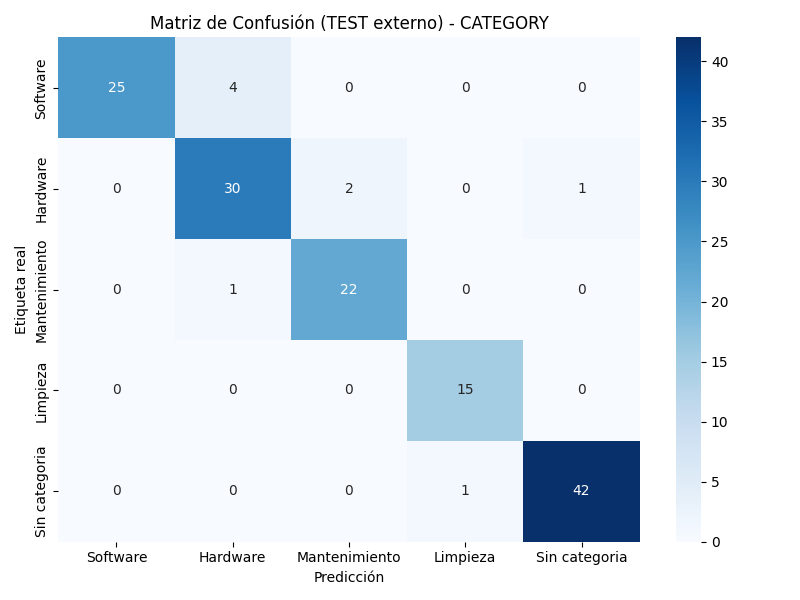
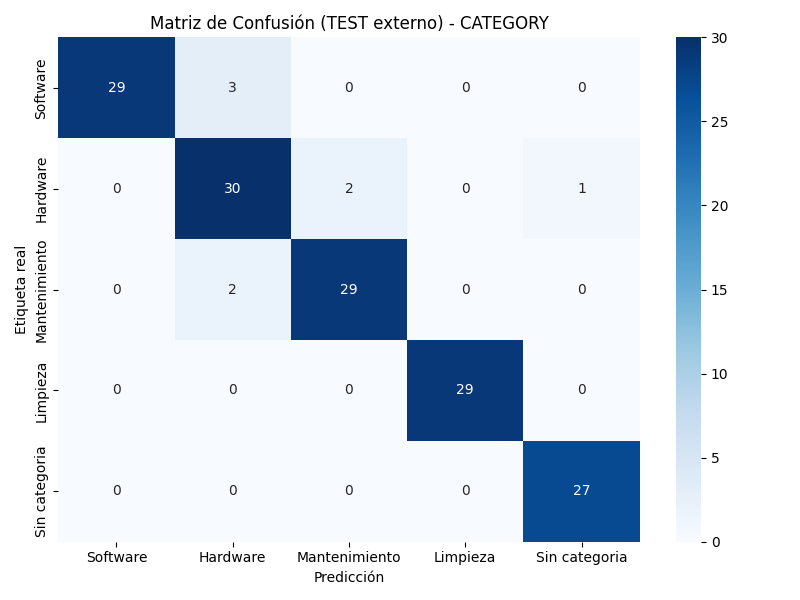
Preprocess y test externo mejorados, tolerancia a fallas de tickets, orden de búsqueda cambiado, días de notificaciones: 7, entre otros.

diff --git a/backend/controllers/searchController.js b/backend/controllers/searchController.js
@@ -143,16 +143,6 @@ const getSearch = async (req, res) => {
       }
     }
 
-    const dayMap = {
-      'Lunes': 'L',
-      'Martes': 'M',
-      'Miércoles': 'I',
-      'Miercoles': 'I',
-      'Jueves': 'J',
-      'Viernes': 'V',
-      'Sábado': 'S',
-      'Sabado': 'S'
-    };
 
     const dayPriority = {
       'L': 1,
@@ -164,34 +154,36 @@ const getSearch = async (req, res) => {
       '.': 7
     };
 
-    const selectedDayLetter = dayMap[day] || day;
+    function getEarliestDayPriority(daysStr) {
+      const days = daysStr.split(' ').filter(d => d !== '');
+      return days.reduce((min, d) => {
+        const pr = dayPriority[d] ?? 7;
+        return pr < min ? pr : min;
+      }, 7);
+    }
+
+    function getStartTime(scheduleStr) {
+      if (!scheduleStr) return 9999;
+      const [start] = scheduleStr.split('-');
+      return parseInt(start, 10);
+    }
 
     results.sort((a, b) => {
-      const aIsInBuilding = a.data.building === building;
-      const bIsInBuilding = b.data.building === building;
+      const aDayPr = getEarliestDayPriority(a.data.days || '');
+      const bDayPr = getEarliestDayPriority(b.data.days || '');
 
-      // Prioridad 1: el edificio que coincide
-      if (aIsInBuilding && !bIsInBuilding) return -1;
-      if (!aIsInBuilding && bIsInBuilding) return 1;
-
-      // Obtener días activos
-      const aDays = a.data.days.split(' ').filter(d => d !== '.' && d !== '');
-      const bDays = b.data.days.split(' ').filter(d => d !== '.' && d !== '');
-
-      // Prioridad 2: dentro del mismo edificio, día buscado
-      const aHasDay = aDays.includes(selectedDayLetter);
-      const bHasDay = bDays.includes(selectedDayLetter);
-      if (aIsInBuilding && bIsInBuilding) {
-        if (aHasDay && !bHasDay) return -1;
-        if (!aHasDay && bHasDay) return 1;
+      // Primero por día
+      if (aDayPr !== bDayPr) {
+        return aDayPr - bDayPr;
       }
 
-      // Prioridad 3: día más próximo por prioridad
-      const aBestDay = aDays.reduce((min, d) => Math.min(min, dayPriority[d] ?? 7), 7);
-      const bBestDay = bDays.reduce((min, d) => Math.min(min, dayPriority[d] ?? 7), 7);
+      // Ordena por hora
+      const aStart = getStartTime(a.data.schedule);
+      const bStart = getStartTime(b.data.schedule);
 
-      return aBestDay - bBestDay;
+      return aStart - bStart;
     });
+
 
     // Envia los resultados
     if (results.length === 0) {

diff --git a/frontend/src/components/interfaz_calendar/selectsLogic.js b/frontend/src/components/interfaz_calendar/selectsLogic.js
@@ -199,28 +199,28 @@ export default function SelectsLogic({ onUpdateBuilding, onUpdateDay, onUpdateCy
       if (result.success) {
         const { buildings, cycles } = result.result;
         
-        let message = '📢 Estado de los archivos JSON.\n\n';
+        let message = 'Estado de los archivos JSON.\n\n';
         // Información de edificios
-        message += `📚 Edificios:\n`;
-        message += `✅ Éxito: ${buildings.success.length} edificios\n`;
-        message += `⚠ Vacíos: ${buildings.empty.length} edificios\n`;
-        message += `🗑 Corruptos: ${buildings.skipped.length} edificios\n`;
-        message += `❌ Fallidos: ${buildings.failed.length} edificios\n`;
+        message += `Edificios:\n`;
+        message += `Éxito: ${buildings.success.length} edificios\n`;
+        message += `Vacíos: ${buildings.empty.length} edificios\n`;
+        message += `Corruptos: ${buildings.skipped.length} edificios\n`;
+        message += `Fallidos: ${buildings.failed.length} edificios\n`;
 
         // Información de ciclos
         if (cycles?.success) {
-          message += `\n📅 Ciclos guardados`;
+          message += `\nCiclos guardados.`;
         } else {
-          message += `\n❌ No se pudieron guardar los ciclos.`;
+          message += `\nNo se pudieron guardar los ciclos.`;
         }
   
         alert(message);
       } else {
-        alert(`⚠ Hubo un error al descargar los archivos: ${result.error || "Error desconocido"}`);
+        alert(`Hubo un error al descargar los archivos: ${result.error || "Error desconocido"}`);
       }
     } catch (error) {
       console.error("Error durante la descarga:", error);
-      alert(`❌ Error inesperado: ${error.message}`);
+      alert(`Error inesperado: ${error.message}`);
     }
   };
 

diff --git a/backend/controllers/ticketController.js b/backend/controllers/ticketController.js
@@ -5,7 +5,12 @@ const { classifyTicket } = require('../utils/aiClassifier');
 
 exports.createTicket = async (req, res) => {
   const { building, room, title, report, created_by } = req.body;
-  // const { category, secondaryCategory, priority } = classifyTicket({ building, room, title, report });
+
+  if (!building || !report || !title || !created_by) {
+    return res.status(400).json({ error: 'Faltan campos obligatorios' });
+  }
+
+  let category, secondaryCategory, priority;
 
   try {
     const response = await axios.post(`${process.env.CLASSIFIER_URL}/classify`, {
@@ -18,16 +23,13 @@ exports.createTicket = async (req, res) => {
     secondaryCategory = response.data.secondaryCategory;
     priority = response.data.priority;
   } catch (error) {
-    return res.status(500).json({ error: 'Error clasificando el ticket' });
+    category = 'Sin categoria';
+    secondaryCategory = null;
+    priority = 'Baja';
   }
 
   const fullCategory = secondaryCategory ? `${category} (${secondaryCategory})` : category;
 
-  // const { building, room, title, category, priority, report, created_by } = req.body;
-
-  if (!building || !report || !title || !priority || !fullCategory || !created_by) {
-    return res.status(400).json({ error: 'Faltan campos obligatorios' });
-  }
 
   try {
     const result = await pool.query(

diff --git a/frontend/src/utils/notificacions.js b/frontend/src/utils/notificacions.js
@@ -6,7 +6,7 @@ export const notifyReserva = (mensaje, reservation, onSeen) => {
       <div>
         <p>📍 Edificio: {reservation.building} ({reservation.classroom}).</p>
         <p>📖 Profesor: {reservation.professor}.</p>
-        {reservation.user && <p>👤 Usuario: {reservation.user.charAt(0).toUpperCase() + reservation.user.slice(1)}</p>}
+        {reservation.user && <p>👤 Usuario: {reservation.user.charAt(0).toUpperCase() + reservation.user.slice(1)}.</p>}
       </div>
     ),
     onAutoClose: () => onSeen?.(),
@@ -26,10 +26,10 @@ export const notifyTicket = (mensaje, ticket, onSeen) => {
     description: (
     <div>
       <b>{ticket.title}</b>
-      <p>Edificio: {ticket.building}.</p>
-      <p>Prioridad: {ticket.priority}.</p>
+      <p>📍 Edificio: {ticket.building}.</p>
+      <p>🕑 Prioridad: {ticket.priority}.</p>
       <p>
-        Creado por: {ticket.created_by.charAt(0).toUpperCase() + ticket.created_by.slice(1)}.
+        👤 Creado por: {ticket.created_by.charAt(0).toUpperCase() + ticket.created_by.slice(1)}.
       </p>
 
     </div>

diff --git a/frontend/src/components/interfaz_login/crud.js b/frontend/src/components/interfaz_login/crud.js
@@ -532,7 +532,7 @@ export default function Crud() {
                               className="px-3 py-1.5 border border-gray-300 rounded-md shadow-sm focus:outline-none focus:ring-2 focus:ring-indigo-600 focus:border-indigo-500 text-sm text-gray-800 bg-white"
                             >
                               <option value="user">Usuario</option>
-                              <option value="superuser">Super usuario</option>
+                              <option value="superuser">Superusuario</option>
                               <option value="tecnico">Técnico</option>
                             </select>
                           </td>
@@ -643,7 +643,7 @@ export default function Crud() {
               ¿Estás seguro de cambiar el rol de <strong>{selectedUser?.username}</strong> a{' '}
               <strong>
               {pendingRole === 'superuser'
-              ? 'Super usuario'
+              ? 'Superusuario'
               : pendingRole === 'user'
               ? 'Usuario'
               : 'Técnico'

diff --git a/frontend/src/components/interfaz_calendar/professorSchedule.js b/frontend/src/components/interfaz_calendar/professorSchedule.js
@@ -49,7 +49,7 @@ export default function ProfessorSchedule({ professorSchedule, selectedCycle }) 
       <hr style={{ margin: '10px 0 20px 0', borderTop: '2px solid #4629ba' }} />
 
       {professors.map((professor, idx) => (
-        <div key={idx} className="professor-section">
+        <div key={idx} className="professor-section" style={{fontSize: "17px"}}>
           <strong>
             <h4>{professor}</h4>
           </strong>
@@ -61,6 +61,7 @@ export default function ProfessorSchedule({ professorSchedule, selectedCycle }) 
                   <div><b>Dia/s:</b> {translateDays(course.data.days)}</div>
                   <div><b>Edificio:</b> {course.data.building}</div>
                   <div><b>Salón:</b> {course.data.classroom}</div>
+                  <div><b>Clave:</b> {course.data.code}</div>
                   <div><b>Horario:</b> {course.data.schedule.replace(/(\d{2})(\d{2})-(\d{2})(\d{2})/, "$1:$2 - $3:$4")}</div>
               </li>
             ))}

diff --git a/frontend/src/components/interfaz_calendar/calendar.js b/frontend/src/components/interfaz_calendar/calendar.js
@@ -200,7 +200,7 @@ export default function Calendar() {
   
       if (!response.ok) {
         if (response.status === 409) {
-          alert('⚠ Ya existe una reserva para esta fecha, horario y aula.');
+          alert('Ya existe una reserva para esta fecha, horario y aula.');
         } else if (response.status === 500) {
             toast.info('Tokens invalidos.\nRedirigiéndote para iniciar sesión en Google...', {
             autoClose: 1000,
@@ -220,7 +220,7 @@ export default function Calendar() {
         }
         else {
           console.error('Error desde el servidor:', result.error || 'Error desconocido');
-          alert(`❌ Error al guardar la reserva: ${result.error || 'Error desconocido'}`);
+          alert(`Error al guardar la reserva: ${result.error || 'Error desconocido'}`);
         }
         return;
       }

diff --git a/frontend/src/components/AccountConfigButton.js b/frontend/src/components/AccountConfigButton.js
@@ -25,7 +25,7 @@ export default function AccountConfigButton({ className = '' }) {
       title={isInConfig ? "Ir a inicio" : "Configuración de cuenta"}
     >
       {isInConfig ? (
-        // Ícono de inicio 🏠
+        // Ícono de inicio
         <svg
           xmlns="http://www.w3.org/2000/svg"
           className="w-10 h-10 text-white"
@@ -41,7 +41,7 @@ export default function AccountConfigButton({ className = '' }) {
           />
         </svg>
       ) : (
-        // Ícono de configuración ⚙
+        // Ícono de configuración
         <svg
           xmlns="http://www.w3.org/2000/svg"
           className="w-10 h-10 text-white"

diff --git a/notifier/notifications.js b/notifier/notifications.js
@@ -70,7 +70,7 @@ app.post('/notify', async (req, res) => {
 /* GUARDA LAS NOTIFICACIONES EN LA BD */
 app.get('/notifications', async (req, res) => {
   const userId = req.query.user;
-  const maxDays = parseInt(req.query.maxDays || '30', 10);
+  const maxDays = parseInt(req.query.maxDays || '7', 10);
 
 
   if (userId === undefined || userId === null ) return res.status(400).json({ error: 'Falta userId' });

diff --git a/frontend/src/components/AccountConfig.js b/frontend/src/components/AccountConfig.js
@@ -181,7 +181,7 @@ export default function AccountConfig() {
           <p><strong>Nombre:</strong> {userInfo.username}</p>
           <p><strong>Rol:</strong> {
             userInfo.role === 'superuser'
-              ? 'Super usuario'
+              ? 'Superusuario'
               : userInfo.role === 'user'
               ? 'Usuario'
               : 'Técnico'

diff --git a/frontend/src/AppContent.js b/frontend/src/AppContent.js
@@ -193,7 +193,7 @@ export default function AppContent() {
 
     const timeout = setTimeout(() => {
       setIsLoading(false);
-    }, 600);
+    }, Math.floor(Math.random() * (900 - 800 + 1)) + 800);
 
     return () => clearTimeout(timeout);
   }, [location.pathname]);

diff --git a/ai/app/services/train.py b/ai/app/services/train.py
@@ -17,25 +17,27 @@ import numpy as np
 import os
 
 
+
 # ----------------- ENTRENAMIENTO Y GUARDADO ----------------------
 async def train_and_save_model(data, field, labels, model_path):
   texts = [preprocess(d['text']) for d in data]
   outputs = [labels.index(d[field]) if d[field] in labels else len(labels) - 1 for d in data]
 
   tokenizer, vocabulary = tokenize_data(texts)
-  max_len = 37
+  max_len = 60
 
   X = vectorize(texts, tokenizer, max_len).astype('int32')
-  y = np.array(outputs)
+  y = np.array(outputs, dtype=np.int32)
 
-  _, X_val, _,  y_val = train_test_split(
-    X, y, test_size=0.2, random_state=42, stratify=y
+  X_train, X_val, y_train, y_val = train_test_split(
+      X, y, test_size=0.20, random_state=42, stratify=y
   )
-  X_val = X_val.astype('int32')
+  X_train = X_train.astype('int32')
+  X_val   = X_val.astype('int32')
 
 
-  classes = np.unique(y)
-  cw = compute_class_weight(class_weight='balanced', classes=classes, y=y)
+  classes = np.unique(y_train)
+  cw = compute_class_weight(class_weight='balanced', classes=classes, y=y_train)
   class_weight = {int(c): float(w) for c, w in zip(classes, cw)}
 
   # if field == 'priority':
@@ -50,19 +52,19 @@ async def train_and_save_model(data, field, labels, model_path):
   model = create_model(len(labels), len(vocabulary))
 
   callbacks = [
-    ReduceLROnPlateau(monitor="loss", factor=0.5, patience=4, min_delta=1e-4, cooldown=1, min_lr=1e-5, verbose=1),
-    ModelCheckpoint(f"{model_path}_best.keras", monitor="loss", save_best_only=True, verbose=1),
+    ReduceLROnPlateau(monitor="val_loss", factor=0.5, patience=4, min_delta=1e-4, cooldown=1, min_lr=1e-5, verbose=0),
+    ModelCheckpoint(f"{model_path}_best.keras", monitor="val_loss", save_best_only=True, verbose=0),
   ]
 
   history = model.fit(
-    X, y,
+    X_train, y_train,
     epochs=300,
     batch_size=64,
     validation_data=(X_val, y_val),
     class_weight=class_weight,
     shuffle=True,
     callbacks=callbacks,
-    verbose=2
+    verbose=0
   )
 
   best_model = load_model(f"{model_path}_best.keras")
@@ -81,7 +83,7 @@ async def train_and_save_model(data, field, labels, model_path):
 
   image_filename = model_path + '_confusion_matrix.png'
   plot_confusion_matrix(cm, labels, f'Matriz de Confusión (VAL) - {field.upper()}', image_filename)
-  print(f'Matriz de confusión guardada en: {image_filename}')
+  print(f'Matriz de confusión guardada.')
 
 
 # ------------------- ENTRENAMIENTO DE LOS MODELOS --------------------
@@ -91,12 +93,10 @@ async def train_all_models():
   try:
     category_data = await fetch_category_data(pool)
     await train_and_save_model(category_data, 'category', category_labels, category_model_path)
-
-    await evaluate_on_external_test(category_model_path, category_labels, pool, fetch_category_test_data, 'category')
-
     priority_data = await fetch_priority_data(pool)
     await train_and_save_model(priority_data, 'priority', priority_labels, priority_model_path)
-
+    
+    await evaluate_on_external_test(category_model_path, category_labels, pool, fetch_category_test_data, 'category')
     await evaluate_on_external_test(priority_model_path, priority_labels, pool, fetch_priority_test_data, 'priority')
 
     print('Modelos entrenados y guardados.')
@@ -129,14 +129,13 @@ async def evaluate_on_external_test(model_path, labels, pool, fetch_fn, field_na
   X_test = vectorize(texts, tokenizer, max_len).astype('int32')
 
   y_pred = np.argmax(best_model.predict(X_test, batch_size=256, verbose=0), axis=1)
-  print("\n=== RESULTADOS EN TEST EXTERNO ===")
+  print(f"\n=== RESULTADOS EN TEST EXTERNO ({field_name.upper()}) ===")
   print(classification_report(y_true, y_pred, target_names=labels, digits=3))
 
   cm = sk_confusion(y_true, y_pred)
   image_filename = model_path + '_external_test_confusion_matrix.png'
   plot_confusion_matrix(cm, labels, f'Matriz de Confusión (TEST externo) - {field_name.upper()}', image_filename)
-  print(f'Matriz de confusión (externa) guardada en: {image_filename}')
-
+  print(f'Matriz de confusión (externa) guardada.')
 
 
 asyncio.run(train_all_models())
